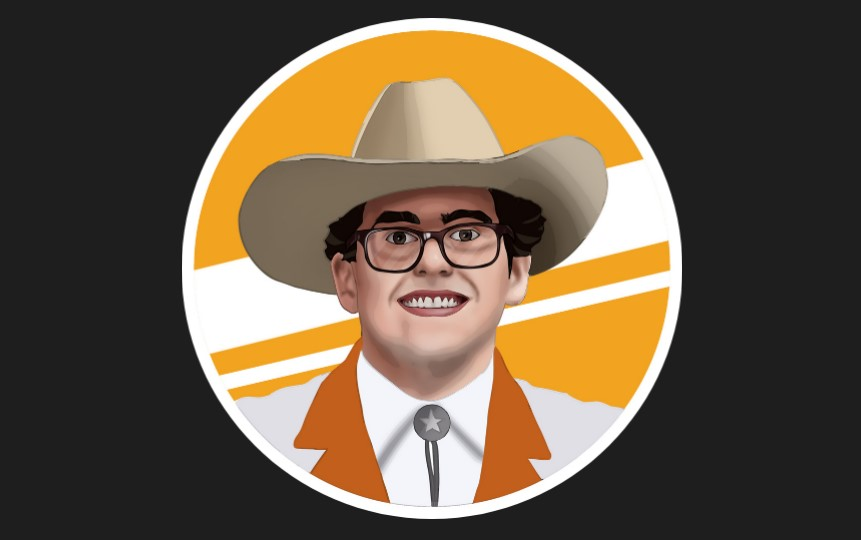
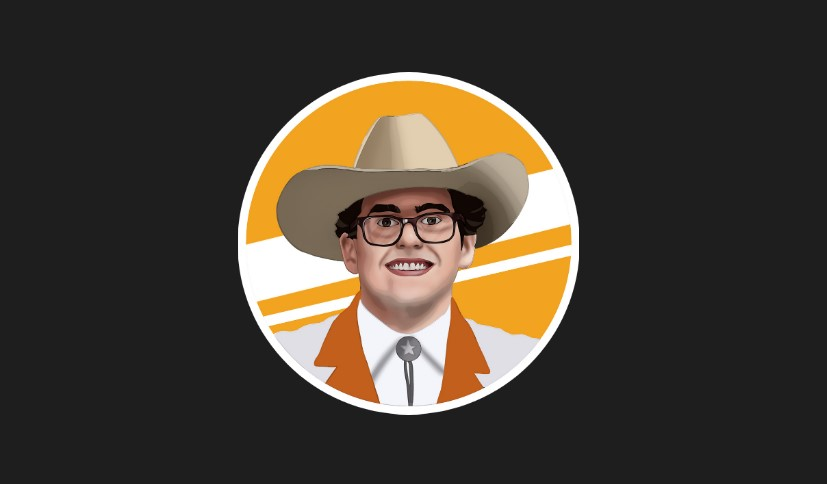
Fixed Image Scale and Added Page images

diff --git a/style.css b/style.css
@@ -18,10 +18,12 @@ body {
     position: relative;
     z-index: 2;
     transition: transform 500ms cubic-bezier(.13,.53,.38,.97);
+    overflow:hidden;
   }
 
   img {
     border-radius: 2vh;
+    object-fit: cover;
   }
 
   #gallery img {
@@ -47,30 +49,6 @@ body {
   .tall {
     max-height: 60vh;
   }
-
-  @media (max-width: 1200px) {
-    #gallery {
-     -moz-column-count:    4;
-     -webkit-column-count: 4;
-     column-count:         4;
-    }
-  }
-
-  @media (max-width: 800px) {
-    #gallery {
-     -moz-column-count:    3;
-     -webkit-column-count: 3;
-     column-count:         3;
-    }
-  }
-
-  @media (max-width: 600px) {
-    #gallery {
-     -moz-column-count:    2;
-     -webkit-column-count: 2;
-     column-count:         2;
-    }
- }
   
   body[data-nav="true"] > main {
     transform: translateY(-50%);
@@ -182,3 +160,19 @@ body {
   #source-link > i {
     color: rgb(94, 106, 210);
   }
+
+  @media (max-width: 1200px) {
+    #gallery {
+     -moz-column-count:    3;
+     -webkit-column-count: 3;
+     column-count:         3;
+    }
+  }
+
+  @media (max-width: 800px) {
+    #gallery {
+     -moz-column-count:    2;
+     -webkit-column-count: 2;
+     column-count:         2;
+    }
+ }

diff --git a/index.html b/index.html
@@ -35,7 +35,7 @@
 				</a>
 				<a class="nav-link" href="./contact/">
 				<h2 class="nav-link-label rubik-font">Contact</h2>
-				<img class="nav-link-image" src="https://images.unsplash.com/photo-1665910407771-bc84ad45676b?ixlib=rb-1.2.1&ixid=MnwxMjA3fDB8MHxwaG90by1wYWdlfHx8fGVufDB8fHx8&auto=format&fit=crop&w=776&q=80" />
+				<img class="nav-link-image" src="./imgs/contact.jpg" />
 				</a>
 			</div>
 		</nav>
